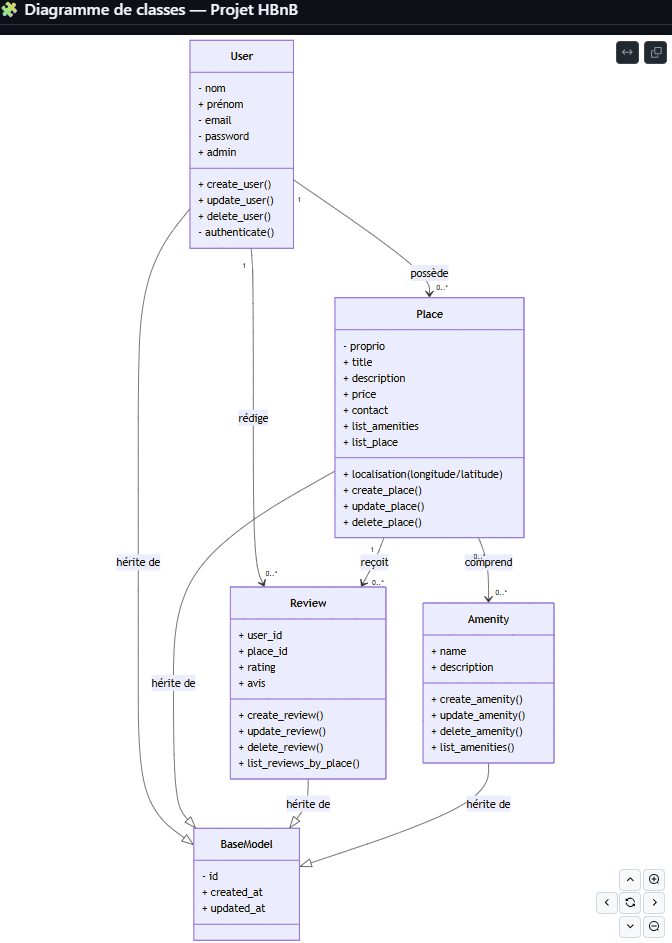
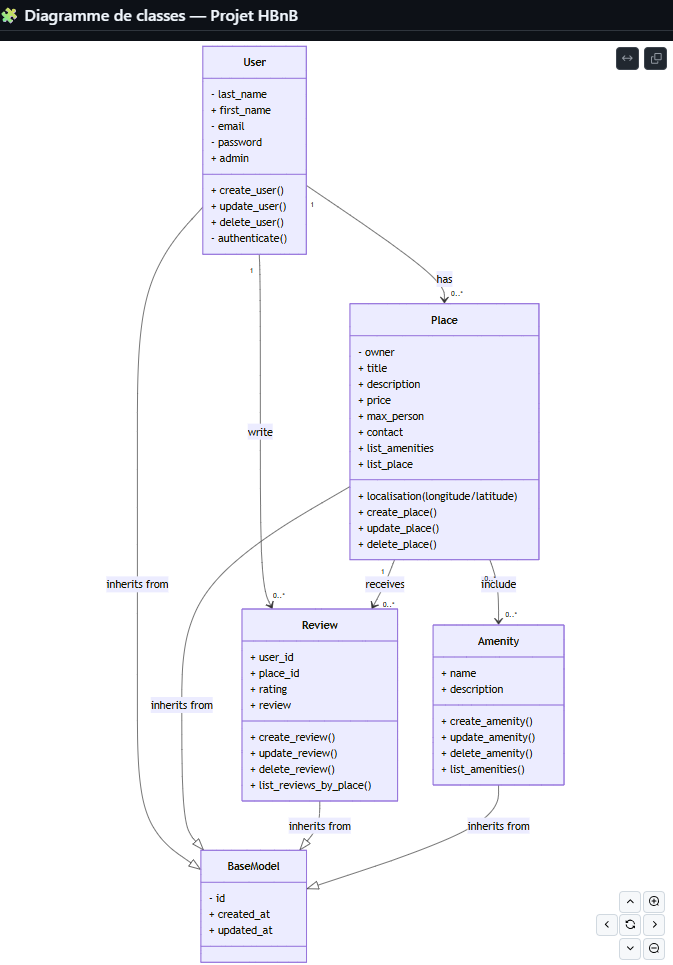
correctif diagram class + ajout du diagramme de sequense

diff --git a/part1/diagram_sequence.md b/part1/diagram_sequence.md
@@ -1,23 +1,84 @@
-
 # User Registration
 ```mermaid
 sequenceDiagram
-participant Utilisateur
+participant User
 participant API
-participant LogiqueMetier
-participant BaseDeDonnées
+participant BusinessLogic
+participant DataBase
 %% Inscription d’un nouvel utilisateur :
-Utilisateur->>API: Inscription (Envoi de données utilisateur)
-API->>LogiqueMetier: Valide et transfère la demande
-Note right of API: Si cette utilsateur n'existe pas
-LogiqueMetier->>BaseDeDonnées: Enregistre le nouvel utilisateur
-BaseDeDonnées-->>LogiqueMetier: Enregistrement confirmé
-LogiqueMetier-->>API: Retourne Succès inscription
-API-->>Utilisateur: Inscription réussie (code 200)
-Note right of API: Sinon:
-BaseDeDonnées-->>LogiqueMetier: Utilisateur déjà existant (Échec)
-LogiqueMetier-->>API: Retourne Échec
-API-->>Utilisateur: Inscription échouée (code 400 ou 404)
+User->>API: Sign up (Send user data)
+API->>API: Verify parameters of API
+Note right of User: If information of User is incomplete
+API-->>User: return error 400
+API->>BusinessLogic: Validate and send the request
+BusinessLogic->>DataBase: Check if User exists
+Note right of BusinessLogic: If this user does not exist
+DataBase-->>BusinessLogic: Confirm user don't exists
+BusinessLogic->>DataBase: Register the new user
+DataBase-->>BusinessLogic: Registration success
+BusinessLogic-->>API: Return registration success
+API-->>User: Registration successful (code 201)
+Note right of BusinessLogic: Else:
+DataBase-->>BusinessLogic: User already exists (Failure)
+BusinessLogic-->>API: Return failure
+API-->>User: Registration failed (code 409)
+```
+
+# Création d’un hébergement :
+```mermaid
+sequenceDiagram
+participant User
+participant API
+participant BusinessLogic
+participant Database
+	User->>API: Create Place (Send Place data)
+	API->>API: Verify parameters of API
+	Note right of User: If Place not have information complete
+	API-->>User: return error 400
+	API->>BusinessLogic: Validate and send the request
+	BusinessLogic->>DataBase: Check if Place exists
+	Note right of BusinessLogic: If the Place does not exist
+	DataBase-->>BusinessLogic: Confirm Place don't exists
+	BusinessLogic->>DataBase: Create Place data
+	DataBase-->>BusinessLogic: Create Place confirmed
+	BusinessLogic-->>API: Return creation success
+	API-->>User: Place successfully created (code 201)
+	Note right of BusinessLogic: Else:
+	DataBase-->>BusinessLogic: Place already exist (Failure)
+	BusinessLogic-->>API: Return failure
+	API-->>User: Place creation failed (code 409)
+```
+
+# Review submission 
+```mermaid
+sequenceDiagram
+participant User
+participant API
+participant BusinessLogic
+participant Database
+	User->>API: Submit review (Send review data)
+	API->>API: Verify parameters of API
+	Note right of User: If Review not have information complete (Rating & comment)
+	API-->>User: return error 400
+	API->>BusinessLogic: Validate and send the request
+	BusinessLogic->>DataBase: Verify User and Place exist
+	Note right of BusinessLogic: If the User and Place exist
+	DataBase-->>BusinessLogic: Confirm User and Place exists
+	BusinessLogic->>DataBase: Save review data
+	DataBase-->>BusinessLogic: Save confirmed
+	BusinessLogic-->>API: Return submission success
+	API-->>User: Review successfully submitted (code 201)
+	Note right of BusinessLogic: If the User and Place don't exist
+	DataBase-->>BusinessLogic: Validation failed
+	BusinessLogic-->>API: Return failure
+	API-->>User: Review submission failed (code 404)
+	User->>API: user select a place and send a HTTP request
+	API->>API: Verify parameters of API
+	API->>BusinessLogic: Check matching criteria
+	BusinessLogic->>Database: request database
+	Database-->>BusinessLogic: List<Place> with criteria
+	BusinessLogic-->>API: return the list of places
+	API-->>User: user see the list of places depending on the criteria
 ```
 
 # Fetching a List of Places
